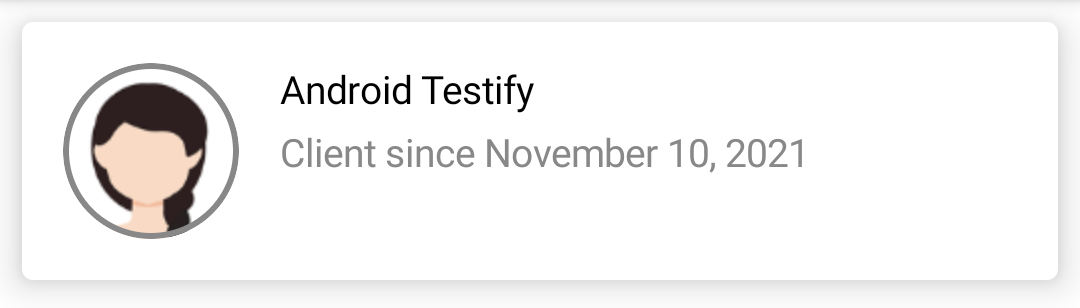
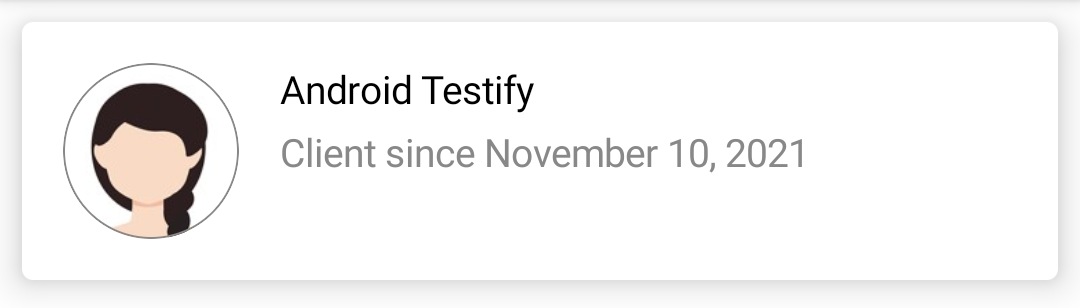
WIP

diff --git a/Sample/src/main/java/com/shopify/testify/sample/ComposeActivity.kt b/Sample/src/main/java/com/shopify/testify/sample/ComposeActivity.kt
@@ -25,10 +25,10 @@ package com.shopify.testify.sample
 
 import android.graphics.drawable.Drawable
 import android.os.Bundle
+import android.util.Log
 import androidx.activity.ComponentActivity
 import androidx.activity.compose.setContent
 import androidx.annotation.DrawableRes
-import androidx.compose.foundation.Image
 import androidx.compose.foundation.border
 import androidx.compose.foundation.clickable
 import androidx.compose.foundation.layout.Column
@@ -128,15 +128,7 @@ fun ClientListItem(name: String, @DrawableRes avatar: Int, since: String, modifi
         Row(
             modifier = Modifier.padding(15.dp),
         ) {
-            Image(
-                painter = painterResource(id = avatar),
-                contentDescription = null,
-                contentScale = ContentScale.Crop,
-                modifier = Modifier
-                    .size(64.dp)
-                    .clip(CircleShape)
-                    .border(2.dp, Color.Gray, CircleShape)
-            )
+            Avatar(avatar)
             Column(
                 modifier = Modifier
                     .weight(1f)
@@ -148,6 +140,49 @@ fun ClientListItem(name: String, @DrawableRes avatar: Int, since: String, modifi
             }
         }
     }
+}
+
+@Composable
+fun Avatar(@DrawableRes avatar: Int) {
+    GlideImage(
+        imageModel = avatar,
+        contentDescription = null,
+        contentScale = ContentScale.Crop,
+        modifier = Modifier
+            .size(64.dp)
+            .clip(CircleShape)
+            .border(2.dp, Color.Gray, CircleShape),
+        requestListener =
+        object : RequestListener<Drawable> {
+            init {
+                Log.d("JETTE", "init ${this.hashCode()}")
+                registerIdlingRegistry()
+            }
+
+            override fun onLoadFailed(
+                e: GlideException?,
+                model: Any?,
+                target: Target<Drawable>?,
+                isFirstResource: Boolean
+            ): Boolean {
+                Log.d("JETTE", "onLoadFailed ${this.hashCode()}")
+                releaseIdlingRegistry()
+                return false
+            }
+
+            override fun onResourceReady(
+                resource: Drawable?,
+                model: Any?,
+                target: Target<Drawable>?,
+                dataSource: DataSource?,
+                isFirstResource: Boolean
+            ): Boolean {
+                Log.d("JETTE", "onResourceReady ${this.hashCode()}")
+                releaseIdlingRegistry()
+                return false
+            }
+        }
+    )
 }
 
 @Composable

diff --git a/Sample/src/androidTest/java/com/shopify/testify/sample/compose/ComposableScreenshotTest.kt b/Sample/src/androidTest/java/com/shopify/testify/sample/compose/ComposableScreenshotTest.kt
@@ -42,6 +42,7 @@ import androidx.test.espresso.IdlingRegistry
 import androidx.test.espresso.idling.CountingIdlingResource
 import com.shopify.testify.ComposableScreenshotRule
 import com.shopify.testify.annotation.ScreenshotInstrumentation
+import com.shopify.testify.sample.Avatar
 import com.shopify.testify.sample.ClientListItem
 import com.shopify.testify.sample.ImageDemo
 import com.shopify.testify.sample.R
@@ -137,9 +138,9 @@ class ComposableScreenshotTest {
     @ScreenshotInstrumentation
     @Test
     fun image() {
-        val idlingResource = CountingIdlingResource("ImageLoadCompletionResource", true).apply {
-            increment()
-        }
+//        val idlingResource = CountingIdlingResource("ImageLoadCompletionResource", true).apply {
+//            increment()
+//        }
 
         rule
             .setCompose {
@@ -148,9 +149,25 @@ class ComposableScreenshotTest {
                         .fillMaxWidth()
                         .wrapContentHeight()
                 ) {
-                    ImageDemo(onImageLoaded = { idlingResource.decrement() })
+                    ImageDemo(onImageLoaded = {  })
                 }
-                IdlingRegistry.getInstance().register(idlingResource)
+//                IdlingRegistry.getInstance().register(idlingResource)
+            }
+            .assertSame()
+    }
+
+    @ScreenshotInstrumentation
+    @Test
+    fun synchronizedImage() {
+        rule
+            .setCompose {
+                Box(
+                    modifier = Modifier
+                        .fillMaxWidth()
+                        .wrapContentHeight()
+                ) {
+                    Avatar(R.drawable.avatar1)
+                }
             }
             .assertSame()
     }

diff --git a/Sample/src/main/java/com/shopify/testify/sample/IdlingResourceExtensions.kt b/Sample/src/main/java/com/shopify/testify/sample/IdlingResourceExtensions.kt
@@ -1,0 +1,26 @@
+package com.shopify.testify.sample
+
+import androidx.test.espresso.IdlingRegistry
+import androidx.test.espresso.idling.CountingIdlingResource
+
+fun Any.registerIdlingRegistry() {
+    registerIdlingRegistry(hashCode().toString())
+}
+
+fun Any.releaseIdlingRegistry() {
+    releaseIdlingRegistry(hashCode().toString())
+}
+
+fun registerIdlingRegistry(key: String) {
+    CountingIdlingResource(key).apply {
+        increment()
+        IdlingRegistry.getInstance().register(this)
+    }
+}
+
+fun releaseIdlingRegistry(key: String) {
+    IdlingRegistry.getInstance().resources.find { it.name == key }?.let { idlingResource ->
+        (idlingResource as CountingIdlingResource).decrement()
+        IdlingRegistry.getInstance().unregister(idlingResource)
+    }
+}
